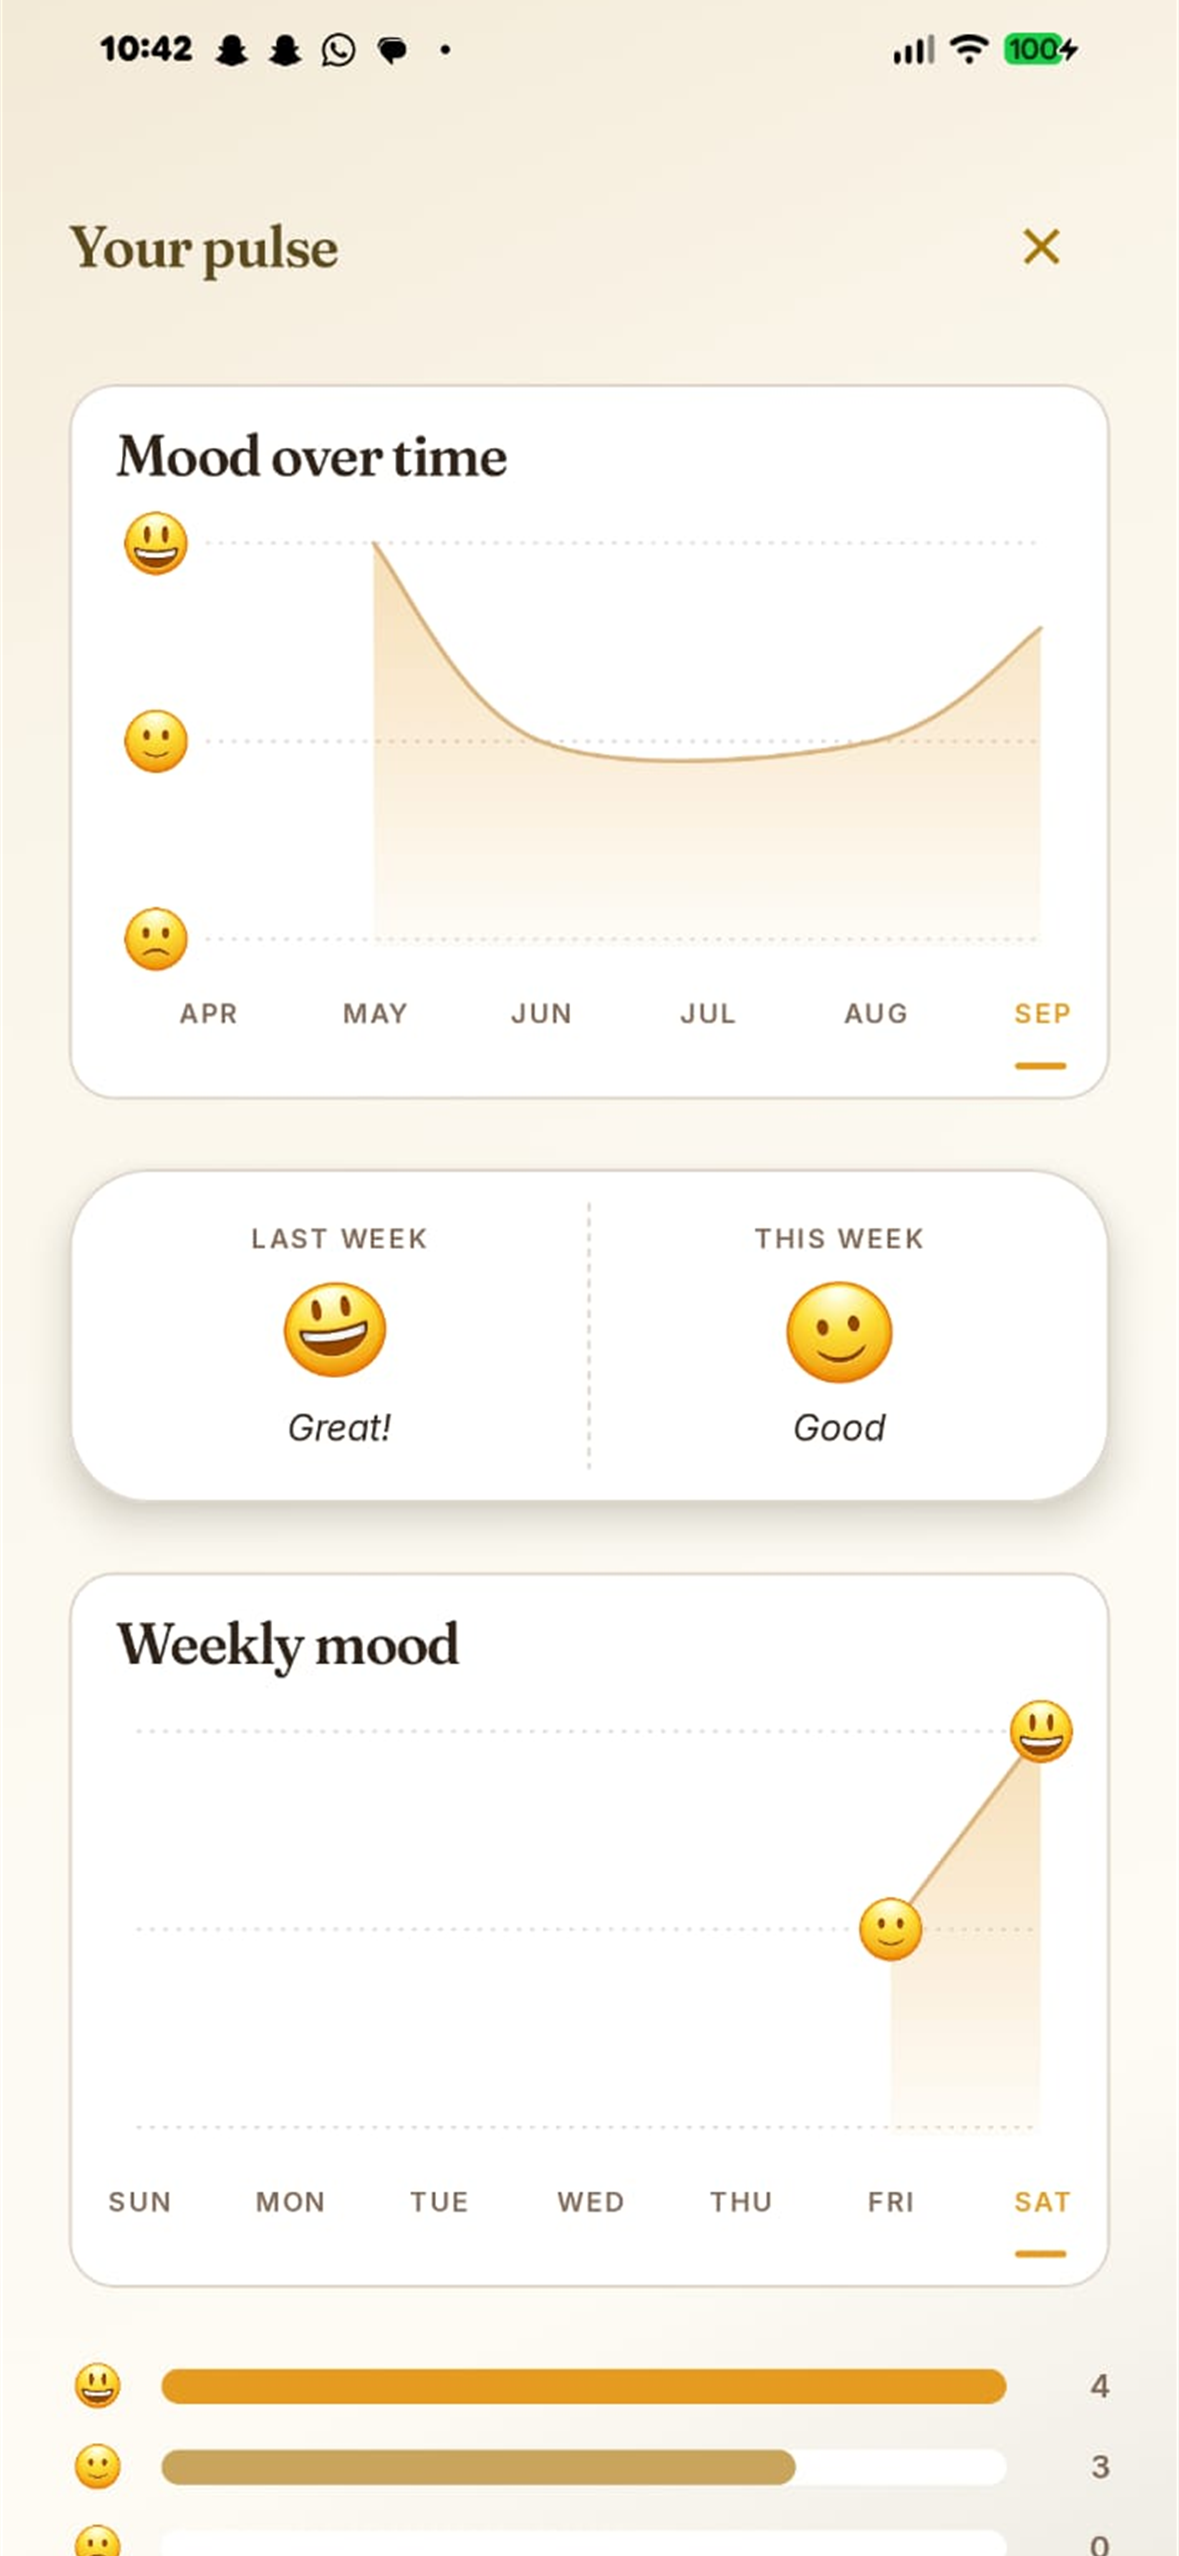
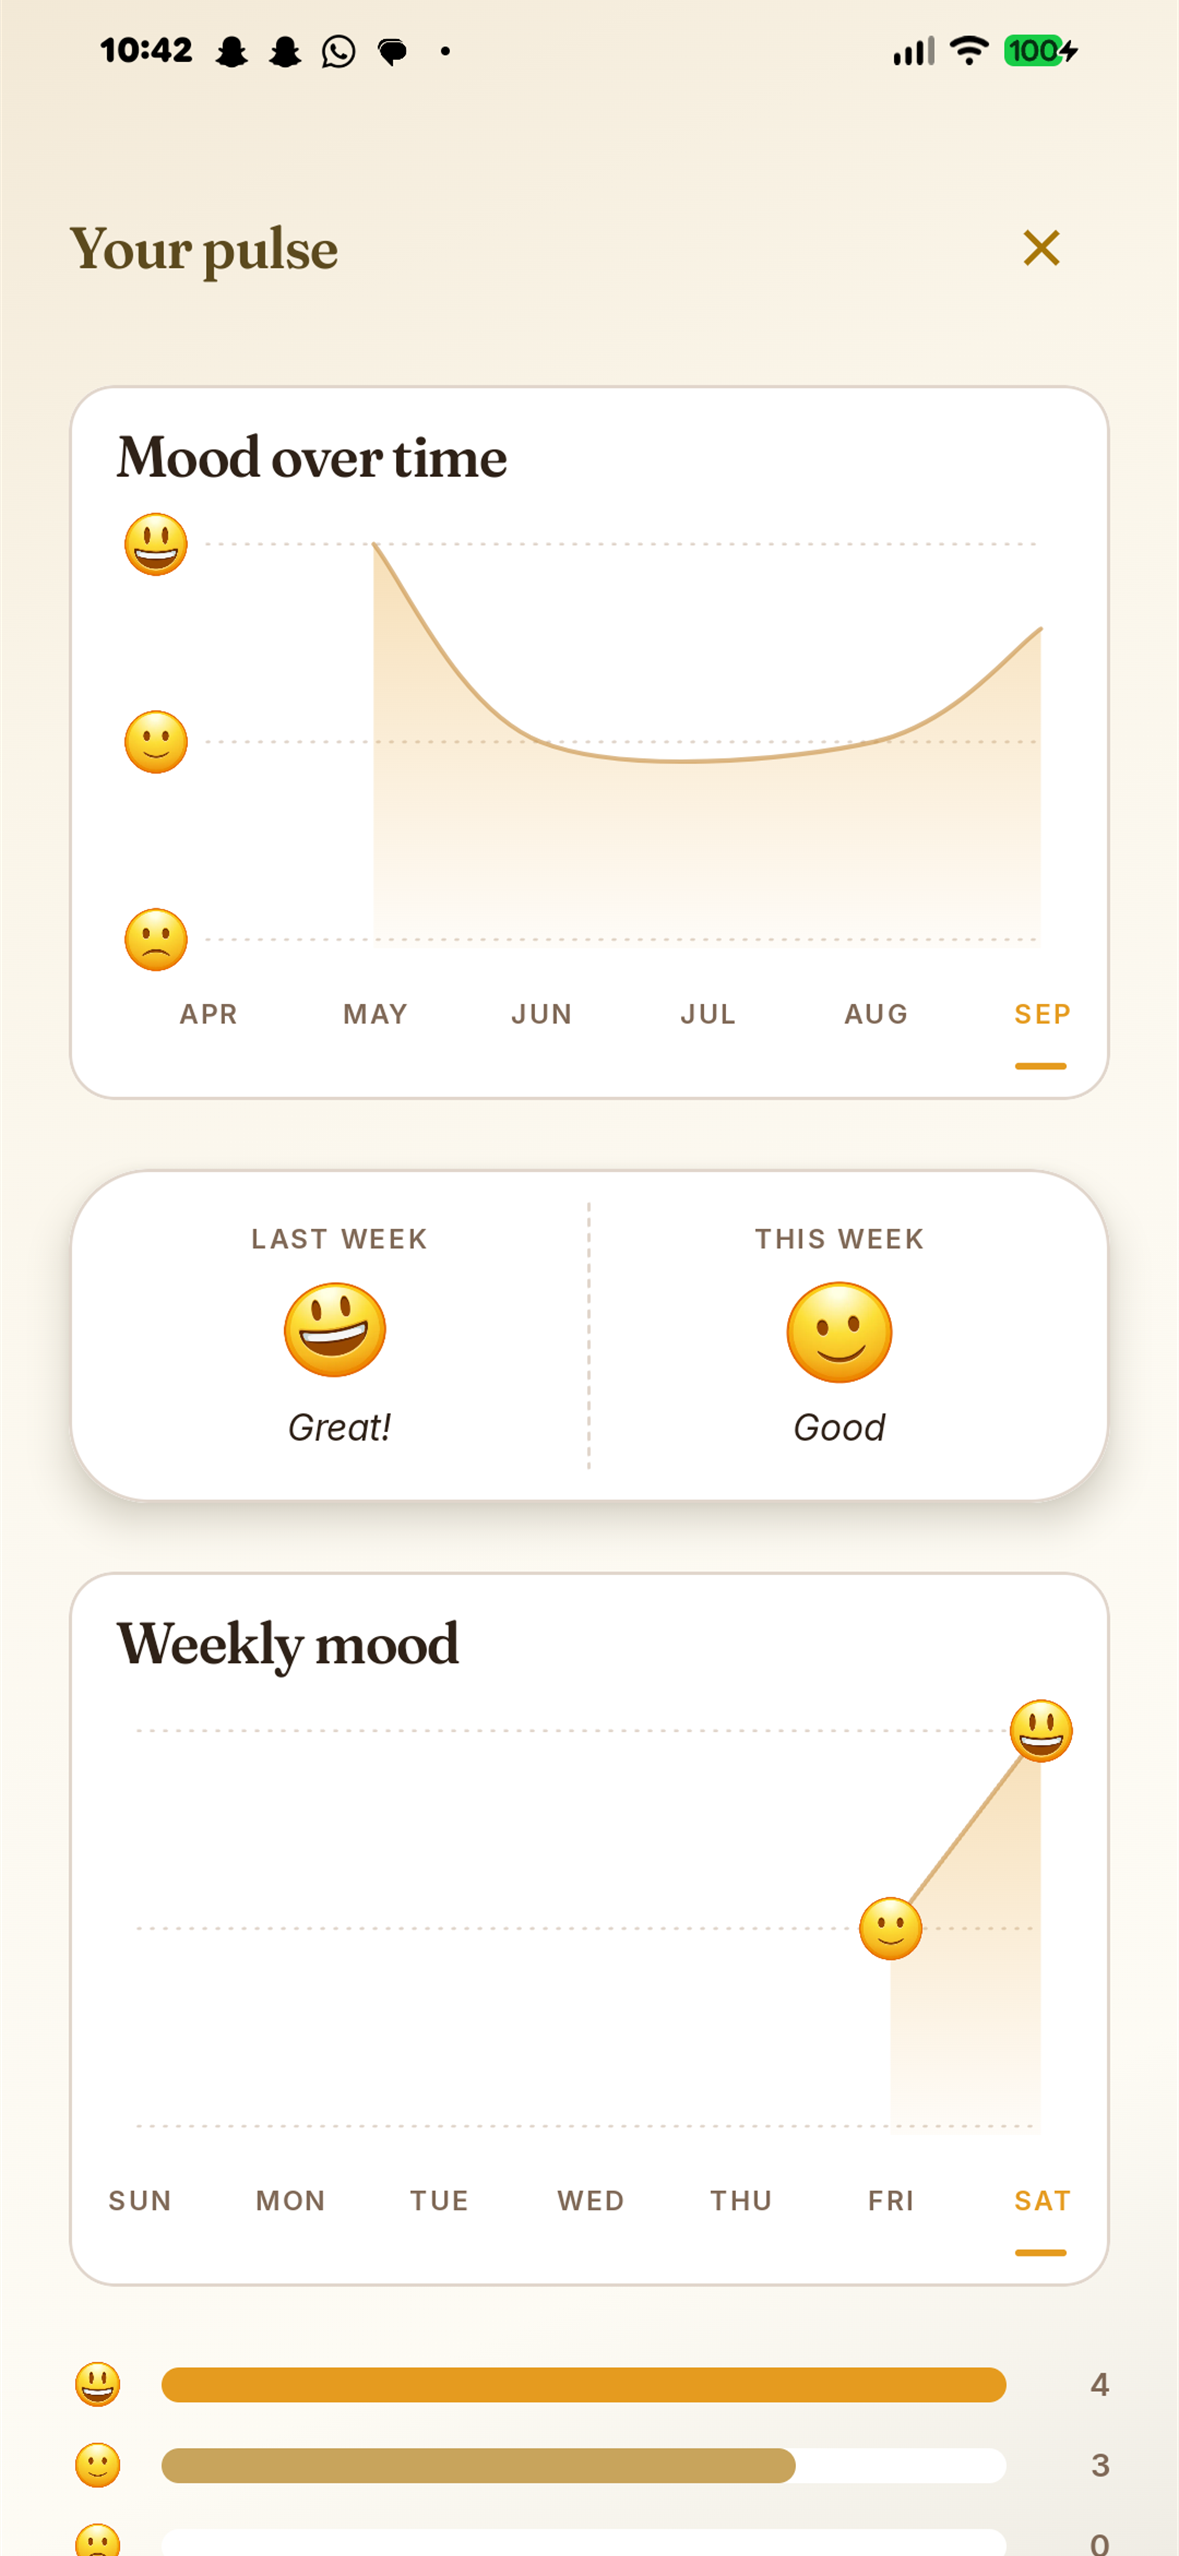
Replace Shipaton screenshots with original captures

diff --git a/README.md b/README.md
@@ -9,10 +9,10 @@ Relive turns everyday thoughts, photos, videos, audio, places, tags, and feeling
 Capture now. Let time organize it. Rediscover it later.
 
 <p align="center">
-  <a href="shipaton/screenshots/01-timeline.png"><img src="shipaton/screenshots/01-timeline.png" alt="Relive timeline with a photo Moment, place, tags, and feeling" width="23%"></a>
-  <a href="shipaton/screenshots/06-search.png"><img src="shipaton/screenshots/06-search.png" alt="Relive local memory search by words, tags, and places" width="23%"></a>
-  <a href="shipaton/screenshots/08-backup.png"><img src="shipaton/screenshots/08-backup.png" alt="Relive private Google Drive backup and restore" width="23%"></a>
-  <a href="shipaton/screenshots/09-export.png"><img src="shipaton/screenshots/09-export.png" alt="Relive Keepsake PDF and portable archive export" width="23%"></a>
+  <a href="shipaton/screenshots/02-home-timeline.png"><img src="shipaton/screenshots/02-home-timeline.png" alt="Relive timeline with a photo Moment, place, tags, and feeling" width="23%"></a>
+  <a href="shipaton/screenshots/08-search.png"><img src="shipaton/screenshots/08-search.png" alt="Relive local memory search by words, tags, and places" width="23%"></a>
+  <a href="shipaton/screenshots/09-backup.png"><img src="shipaton/screenshots/09-backup.png" alt="Relive private Google Drive backup and restore" width="23%"></a>
+  <a href="shipaton/screenshots/10-export.png"><img src="shipaton/screenshots/10-export.png" alt="Relive Keepsake PDF and portable archive export" width="23%"></a>
 </p>
 <p align="center"><sub>Timeline · Search · Backup & restore · Export</sub></p>
 
@@ -106,22 +106,22 @@ There is no local "pretend Pro" switch. Public SDK keys are supplied at build ti
 
 <table>
   <tr>
-    <td align="center"><a href="shipaton/screenshots/10-home.png"><img src="shipaton/screenshots/10-home.png" alt="Relive Home with Rediscover collections" width="100%"></a><br><sub>Home & Rediscover</sub></td>
-    <td align="center"><a href="shipaton/screenshots/01-timeline.png"><img src="shipaton/screenshots/01-timeline.png" alt="Relive timeline" width="100%"></a><br><sub>All Moments</sub></td>
-    <td align="center"><a href="shipaton/screenshots/02-moment.png"><img src="shipaton/screenshots/02-moment.png" alt="Relive On This Day Moment" width="100%"></a><br><sub>On This Day</sub></td>
+    <td align="center"><a href="shipaton/screenshots/03-home-mood.png"><img src="shipaton/screenshots/03-home-mood.png" alt="Relive Home with Rediscover collections and weekly mood" width="100%"></a><br><sub>Home & Rediscover</sub></td>
+    <td align="center"><a href="shipaton/screenshots/02-home-timeline.png"><img src="shipaton/screenshots/02-home-timeline.png" alt="Relive timeline" width="100%"></a><br><sub>All Moments</sub></td>
+    <td align="center"><a href="shipaton/screenshots/05-on-this-day.png"><img src="shipaton/screenshots/05-on-this-day.png" alt="Relive On This Day Moment" width="100%"></a><br><sub>On This Day</sub></td>
   </tr>
   <tr>
-    <td align="center"><a href="shipaton/screenshots/05-timelines.png"><img src="shipaton/screenshots/05-timelines.png" alt="Relive custom timelines" width="100%"></a><br><sub>Custom timelines</sub></td>
-    <td align="center"><a href="shipaton/screenshots/06-search.png"><img src="shipaton/screenshots/06-search.png" alt="Relive local search by writing, tags, and places" width="100%"></a><br><sub>Search</sub></td>
+    <td align="center"><a href="shipaton/screenshots/07-timelines.png"><img src="shipaton/screenshots/07-timelines.png" alt="Relive custom timelines" width="100%"></a><br><sub>Custom timelines</sub></td>
+    <td align="center"><a href="shipaton/screenshots/08-search.png"><img src="shipaton/screenshots/08-search.png" alt="Relive local search by writing, tags, and places" width="100%"></a><br><sub>Search</sub></td>
     <td align="center"><a href="shipaton/screenshots/04-mood-insights.png"><img src="shipaton/screenshots/04-mood-insights.png" alt="Relive Mood Insights" width="100%"></a><br><sub>Mood Insights</sub></td>
   </tr>
   <tr>
-    <td align="center"><a href="shipaton/screenshots/07-profile.png"><img src="shipaton/screenshots/07-profile.png" alt="Relive profile and appearance options" width="100%"></a><br><sub>Profile & appearance</sub></td>
-    <td align="center"><a href="shipaton/screenshots/08-backup.png"><img src="shipaton/screenshots/08-backup.png" alt="Relive Google Drive backup and restore" width="100%"></a><br><sub>Backup & restore</sub></td>
-    <td align="center"><a href="shipaton/screenshots/09-export.png"><img src="shipaton/screenshots/09-export.png" alt="Relive export format selection" width="100%"></a><br><sub>Export</sub></td>
+    <td align="center"><a href="shipaton/screenshots/06-profile.png"><img src="shipaton/screenshots/06-profile.png" alt="Relive profile and appearance options" width="100%"></a><br><sub>Profile & appearance</sub></td>
+    <td align="center"><a href="shipaton/screenshots/09-backup.png"><img src="shipaton/screenshots/09-backup.png" alt="Relive Google Drive backup and restore" width="100%"></a><br><sub>Backup & restore</sub></td>
+    <td align="center"><a href="shipaton/screenshots/10-export.png"><img src="shipaton/screenshots/10-export.png" alt="Relive export format selection" width="100%"></a><br><sub>Export</sub></td>
   </tr>
   <tr>
-    <td align="center" colspan="3"><a href="shipaton/screenshots/03-timeline-theme.png"><img src="shipaton/screenshots/03-timeline-theme.png" alt="Relive timeline theme and wallpaper selection" width="33%"></a><br><sub>Timeline themes</sub></td>
+    <td align="center" colspan="3"><a href="shipaton/screenshots/01-timeline-theme.png"><img src="shipaton/screenshots/01-timeline-theme.png" alt="Relive timeline theme and wallpaper selection" width="33%"></a><br><sub>Timeline themes</sub></td>
   </tr>
 </table>
 
